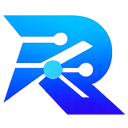
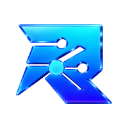
Refresh website branding and withdraw public documentation

diff --git a/app/site-content.ts b/app/site-content.ts
@@ -38,7 +38,6 @@ export const ui = {
     nav: {
       product: "产品",
       workflow: "工作方式",
-      docs: "文档",
       privacy: "隐私",
       changelog: "更新记录",
       community: "社区讨论",
@@ -48,13 +47,13 @@ export const ui = {
     },
     home: {
       badge: "浏览器里的 API 调试工具",
-      titleLead: "把真实请求，",
-      titleAccent: "变成可控规则。",
-      intro: "Mock 响应、修改请求、切换接口环境。",
+      titleLead: "Mock 接口响应，",
+      titleAccent: "修改与重定向请求。",
+      intro: "改写参数、Header 与请求体，切换接口环境，模拟异常与延迟。",
       introDetail: "在 DevTools 中选择请求，直接创建调试规则。",
       chromeDownload: "安装到 Chrome",
       edgeDownload: "安装到 Edge",
-      primary: "第一次使用？查看快速开始",
+      primary: "看看如何开始",
       local: "本地优先",
       noAccount: "无需账号",
       browsers: "Chrome / Edge 138+",
@@ -75,14 +74,14 @@ export const ui = {
       previewClose: "关闭请求详情",
       previewNotice: "当前展示的是根据规则“用户资料 Mock”静态推算的处理预览",
       previewCaption: "从一次真实请求，开始你的第一条规则。",
-      previewGuide: "了解 DevTools 面板",
+      previewGuide: "查看使用流程",
       capabilityKicker: "为日常调试准备",
       capabilityTitle: "接口怎么返回，\n由你来决定。",
       capabilityIntro: "不用搭建 Mock 服务，也不用修改业务代码。在你熟悉的浏览器里，处理联调中的那些小麻烦。",
       cards: [
-        { label: "响应 Mock", title: "让接口返回你需要的数据", body: "用静态 JSON 或动态脚本生成响应，配置状态码和延迟，调试正常、异常和等待状态。", href: "/docs/rules", link: "查看 Mock 与规则" },
-        { label: "请求改写", title: "调整请求，少改一次代码", body: "改写 Query、Header 和 Payload，或将请求重定向到目标服务，方便切换环境与复现问题。", href: "/docs/rules", link: "了解请求处理" },
-        { label: "DevTools", title: "从请求现场直接创建规则", body: "查看真实 Fetch/XHR，单条或批量生成规则草稿。请求命中后，可直接打开对应规则继续编辑。", href: "/docs/devtools", link: "打开 DevTools 指南" },
+        { label: "响应 Mock", title: "让接口返回你需要的数据", body: "用静态 JSON 或动态脚本生成响应，配置状态码和延迟，调试正常、异常和等待状态。" },
+        { label: "请求改写", title: "调整请求，少改一次代码", body: "改写 Query、Header 和 Payload，或将请求重定向到目标服务，方便切换环境与复现问题。" },
+        { label: "DevTools", title: "从请求现场直接创建规则", body: "查看真实 Fetch/XHR，单条或批量生成规则草稿。请求命中后，可直接打开对应规则继续编辑。" },
       ],
       workflowKicker: "从安装到第一条规则",
       workflowTitle: "沿着熟悉的\n调试流程开始。",
@@ -118,10 +117,6 @@ export const ui = {
       product: "产品",
       resources: "资源",
       legal: "信任",
-      docs: "快速开始",
-      devtools: "DevTools 指南",
-      rules: "规则模型",
-      scripts: "页面脚本",
       permissions: "权限说明",
       privacy: "隐私政策",
       changelog: "更新记录",
@@ -130,7 +125,7 @@ export const ui = {
       rights: "Reqix 是一个本地优先的开发者工具。",
     },
     article: {
-      menu: "文档导航",
+      menu: "网站导航",
       onThisPage: "本页内容",
       previous: "上一篇",
       next: "下一篇",
@@ -141,7 +136,6 @@ export const ui = {
     nav: {
       product: "Product",
       workflow: "How it works",
-      docs: "Docs",
       privacy: "Privacy",
       changelog: "Changelog",
       community: "Community",
@@ -151,13 +145,13 @@ export const ui = {
     },
     home: {
       badge: "API debugging, right in your browser",
-      titleLead: "Turn real traffic into ",
-      titleAccent: "rules you control.",
-      intro: "Mock responses. Rewrite requests. Switch API endpoints.",
+      titleLead: "Mock API responses.",
+      titleAccent: "Modify and redirect requests.",
+      intro: "Rewrite parameters, headers, and payloads. Switch API endpoints. Simulate errors and delays.",
       introDetail: "Start with a request in DevTools and create a rule in a few clicks.",
       chromeDownload: "Add to Chrome",
       edgeDownload: "Add to Edge",
-      primary: "New here? Read the quick start",
+      primary: "See how it works",
       local: "Local-first",
       noAccount: "No account",
       browsers: "Chrome / Edge 138+",
@@ -178,14 +172,14 @@ export const ui = {
       previewClose: "Close request details",
       previewNotice: 'Showing a static processing preview computed from rule "User profile mock"',
       previewCaption: "Your first rule starts with a real request.",
-      previewGuide: "Explore the DevTools panel",
+      previewGuide: "See the workflow",
       capabilityKicker: "Made for everyday debugging",
       capabilityTitle: "The response you need.\nWhenever you need it.",
       capabilityIntro: "No mock server to set up. No application code to change. Handle the small integration problems right in the browser you already use.",
       cards: [
-        { label: "Response mocking", title: "Make your API return what you need", body: "Generate responses with static JSON or dynamic scripts. Set status codes and delays to test success, error, and loading states.", href: "/docs/rules", link: "Explore mocks and rules" },
-        { label: "Request rewriting", title: "Adjust the request, keep your code", body: "Rewrite query parameters, headers, and payloads, or redirect to another service to switch environments and reproduce issues.", href: "/docs/rules", link: "See request actions" },
-        { label: "DevTools", title: "Create rules where requests happen", body: "Inspect real Fetch/XHR traffic and create one or many rule drafts. Open the matching rule directly when a request needs another adjustment.", href: "/docs/devtools", link: "Read the DevTools guide" },
+        { label: "Response mocking", title: "Make your API return what you need", body: "Generate responses with static JSON or dynamic scripts. Set status codes and delays to test success, error, and loading states." },
+        { label: "Request rewriting", title: "Adjust the request, keep your code", body: "Rewrite query parameters, headers, and payloads, or redirect to another service to switch environments and reproduce issues." },
+        { label: "DevTools", title: "Create rules where requests happen", body: "Inspect real Fetch/XHR traffic and create one or many rule drafts. Open the matching rule directly when a request needs another adjustment." },
       ],
       workflowKicker: "From install to your first rule",
       workflowTitle: "Fits the way\nyou already debug.",
@@ -221,10 +215,6 @@ export const ui = {
       product: "Product",
       resources: "Resources",
       legal: "Trust",
-      docs: "Quick start",
-      devtools: "DevTools guide",
-      rules: "Rule model",
-      scripts: "Page scripts",
       permissions: "Permissions",
       privacy: "Privacy policy",
       changelog: "Changelog",
@@ -233,7 +223,7 @@ export const ui = {
       rights: "Reqix is a local-first developer tool.",
     },
     article: {
-      menu: "Documentation",
+      menu: "On this site",
       onThisPage: "On this page",
       previous: "Previous",
       next: "Next",
@@ -242,11 +232,8 @@ export const ui = {
   },
 } as const;
 
+/** 官网仅发布信任、版本和安装信息；产品指南内容保留为草稿，不注册公开路由。 */
 export const articleOrder: ArticleId[] = [
-  "getting-started",
-  "devtools",
-  "rules",
-  "page-scripts",
   "permissions",
   "privacy",
   "changelog",

diff --git a/app/site.tsx b/app/site.tsx
@@ -25,8 +25,8 @@ function ReqixLogo() {
         <Image
           src={publicPath("/reqix-logo.png")}
           alt=""
-          width={29}
-          height={29}
+          width={36}
+          height={36}
           className="brand-mark"
           priority
         />
@@ -45,13 +45,11 @@ function SiteHeader({ locale, currentPath }: { locale: Locale; currentPath: stri
   const t = ui[locale].nav;
   const link = (path: string) => publicPath(localizePath(locale, path));
   const home = link("/");
-  const docs = link("/docs");
 
   const nav = (
     <>
       <a href={`${home}#product`}>{t.product}</a>
       <a href={`${home}#workflow`}>{t.workflow}</a>
-      <a href={docs}>{t.docs}</a>
       <a href={COMMUNITY_URL}>{t.community}</a>
       <a href={link("/changelog")}>{t.changelog}</a>
     </>
@@ -101,10 +99,8 @@ function SiteFooter({ locale }: { locale: Locale }) {
         </div>
         <div>
           <h2>{t.product}</h2>
-          <a href={path("/docs")}>{t.docs}</a>
-          <a href={path("/docs/devtools")}>{t.devtools}</a>
-          <a href={path("/docs/rules")}>{t.rules}</a>
-          <a href={path("/docs/page-scripts")}>{t.scripts}</a>
+          <a href={`${path("/")}#product`}>{ui[locale].nav.product}</a>
+          <a href={`${path("/")}#workflow`}>{ui[locale].nav.workflow}</a>
         </div>
         <div>
           <h2>{t.resources}</h2>
@@ -175,7 +171,7 @@ export function HomePage({ locale }: { locale: Locale }) {
             <p className="hero-intro"><span className="hero-intro-lead">{t.intro}</span><span className="hero-intro-detail">{t.introDetail}</span></p>
             <DownloadActions locale={locale} />
             <div className="hero-facts"><span>{t.local}</span><span>{t.noAccount}</span><span>{t.browsers}</span></div>
-            <a className="text-link hero-guide" href={link("/docs")}>{t.primary}<span aria-hidden="true">→</span></a>
+            <a className="text-link hero-guide" href="#workflow">{t.primary}<span aria-hidden="true">→</span></a>
           </div>
           <ProductPreview locale={locale} />
         </div>
@@ -197,7 +193,6 @@ export function HomePage({ locale }: { locale: Locale }) {
                   {index === 1 && <><div><span>QUERY</span><code>page=1 → page=2</code></div><div><span>HEADER</span><code>X-Environment: staging</code></div></>}
                   {index === 2 && <><div><span>GET</span><code>/api/users/me</code></div><div><span className="example-tag">{t.previewMatched}</span><code>{t.previewRuleName}</code></div></>}
                 </div>
-                <a className="text-link" href={link(card.href)}>{card.link}<span aria-hidden="true">↗</span></a>
               </article>
             ))}
           </div>
@@ -208,7 +203,6 @@ export function HomePage({ locale }: { locale: Locale }) {
         <div className="shell workflow-layout">
           <div className="section-heading workflow-copy">
             <p className="section-kicker">{t.workflowKicker}</p><h2>{t.workflowTitle}</h2><p>{t.workflowIntro}</p>
-            <a className="text-link" href={link("/docs/devtools")}>{t.previewGuide}<span aria-hidden="true">→</span></a>
           </div>
           <ol className="workflow-list">
             {t.steps.map((step, index) => <li key={step.title}><span className="step-number">{String(index + 1).padStart(2, "0")}</span><div><h3>{step.title}</h3><p>{step.body}</p></div></li>)}
@@ -235,7 +229,7 @@ export function HomePage({ locale }: { locale: Locale }) {
       <section className="final-cta-section" id="download">
         <div className="shell final-cta">
           <div><p className="section-kicker">{t.finalKicker}</p><h2>{t.finalTitle}</h2><p>{t.finalIntro}</p></div>
-          <div><DownloadActions locale={locale} /><a className="text-link" href={link("/docs")}>{t.primary}<span aria-hidden="true">→</span></a></div>
+          <div><DownloadActions locale={locale} /><a className="text-link" href="#workflow">{t.primary}<span aria-hidden="true">→</span></a></div>
         </div>
       </section>
     </SiteShell>
@@ -262,9 +256,7 @@ export function ArticlePage({ locale, id }: { locale: Locale; id: ArticleId }) {
         <aside className="docs-sidebar">
           <div className="sidebar-label">{t.menu}</div>
           <nav aria-label={t.menu}>
-            {articleOrder.slice(0, 4).map((item) => <a key={item} className={item === id ? "active" : ""} aria-current={item === id ? "page" : undefined} href={link(articlePaths[item])}>{articleLabel(locale, item)}</a>)}
-            <div className="sidebar-label sidebar-group">{locale === "zh" ? "信任与发布" : "Trust & release"}</div>
-            {articleOrder.slice(4).map((item) => <a key={item} className={item === id ? "active" : ""} aria-current={item === id ? "page" : undefined} href={link(articlePaths[item])}>{articleLabel(locale, item)}</a>)}
+            {articleOrder.map((item) => <a key={item} className={item === id ? "active" : ""} aria-current={item === id ? "page" : undefined} href={link(articlePaths[item])}>{articleLabel(locale, item)}</a>)}
           </nav>
         </aside>
 

diff --git a/app/globals.css b/app/globals.css
@@ -86,7 +86,7 @@ a:focus-visible, button:focus-visible, summary:focus-visible { outline: 2px soli
 .header-inner { height: 100%; display: flex; align-items: center; justify-content: space-between; gap: 28px; }
 .brand-link, .brand-lockup { display: inline-flex; align-items: center; flex: none; }
 .brand-lockup { gap: 9px; }
-.brand-mark-wrap, .brand-mark { width: 29px; height: 29px; object-fit: contain; }
+.brand-mark-wrap, .brand-mark { width: 36px; height: 36px; object-fit: contain; }
 .brand-name { font-size: 23px; font-weight: 750; letter-spacing: -.06em; }
 .desktop-nav { display: flex; align-items: center; gap: 24px; margin-left: auto; }
 .desktop-nav a, .language-link { color: var(--text-soft); font-size: 13px; font-weight: 500; transition: color .18s; }
@@ -289,7 +289,7 @@ a:focus-visible, button:focus-visible, summary:focus-visible { outline: 2px soli
   .header-inner { gap: 12px; }
   .header-actions { gap: 13px; }
   .brand-name { font-size: 21px; }
-  .brand-mark, .brand-mark-wrap { width: 25px; height: 25px; }
+  .brand-mark, .brand-mark-wrap { width: 31px; height: 31px; }
   .brand-lockup { gap: 6px; }
   .desktop-download { display: none; }
   .theme-toggle { font-size: 10px; gap: 3px; }

diff --git a/app/seo.ts b/app/seo.ts
@@ -19,7 +19,7 @@ const localeConfig = {
       "在 Chrome 与 Edge 的 DevTools 中查看 Fetch/XHR，并快速创建 Mock、请求改写与重定向规则。",
     shareTitle: "Reqix — 拦截、改写与 Mock 网络请求",
     shareDescription:
-      "从真实 Fetch/XHR 创建清晰、可控的请求拦截与 API Mock 规则。",
+      "Mock 接口响应，修改请求参数、Header 与请求体，重定向请求，在浏览器里完成 API 调试。",
     imageAlt: "Reqix 网络请求拦截与 API Mock 工具",
   },
   en: {
@@ -31,7 +31,7 @@ const localeConfig = {
       "Inspect Fetch/XHR in Chrome and Edge DevTools, then create precise mock, rewrite, redirect, and delay rules.",
     shareTitle: "Reqix — Intercept, rewrite, and mock network requests",
     shareDescription:
-      "Turn real Fetch/XHR traffic into clear, controlled interception and API mocking rules.",
+      "Mock API responses, modify parameters, headers, and payloads, and redirect requests directly in your browser.",
     imageAlt: "Reqix network interception and API mocking tool",
   },
 } as const;

diff --git a/app/product-preview.tsx b/app/product-preview.tsx
@@ -1,4 +1,4 @@
-import { localizePath, publicPath, ui, type Locale } from "./site-content";
+import { publicPath, ui, type Locale } from "./site-content";
 import "./product-preview.css";
 
 /** 官网独立绘制公开交互示意；仅使用虚构请求，不引入插件实现或存储数据。 */
@@ -75,7 +75,7 @@ export function ProductPreview({ locale }: { locale: Locale }) {
           </div>
         </div>
       </div>
-      <figcaption><span>{t.previewCaption}</span><a href={publicPath(localizePath(locale, "/docs/devtools"))}>{t.previewGuide}<span aria-hidden="true">↗</span></a></figcaption>
+      <figcaption><span>{t.previewCaption}</span><a href="#workflow">{t.previewGuide}<span aria-hidden="true">↗</span></a></figcaption>
     </figure>
   );
 }

diff --git a/README.md b/README.md
@@ -1,6 +1,6 @@
 # Reqix Website
 
-Reqix 官方产品网站与用户文档，包含中英文首页、快速开始、DevTools 指南、规则模型、页面脚本、隐私政策、权限说明和更新记录。网站使用 Next.js 静态导出并部署到 GitHub Pages。
+Reqix 官方产品网站，公开提供中英文首页、下载入口、隐私政策、权限说明和更新记录。产品指南暂不对外发布，站点不生成 `/docs/` 与 `/en/docs/` 路由。网站使用 Next.js 静态导出并部署到 GitHub Pages。
 
 ## 本地开发
 
